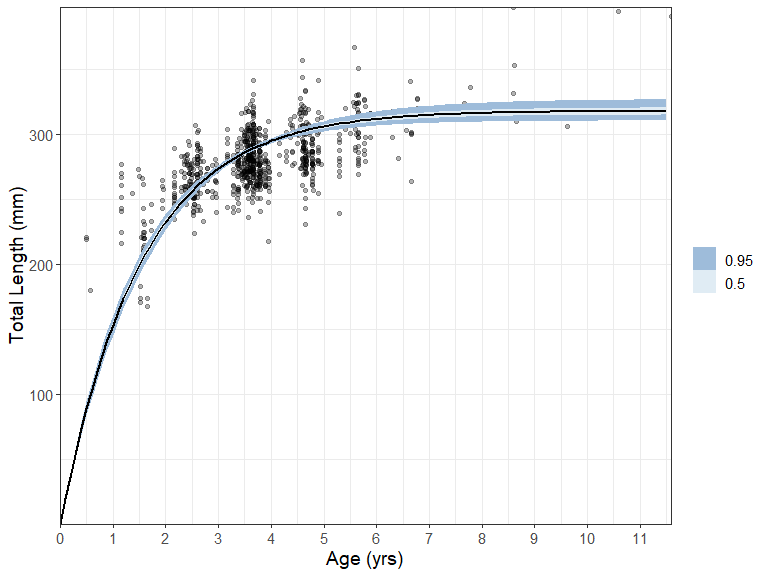
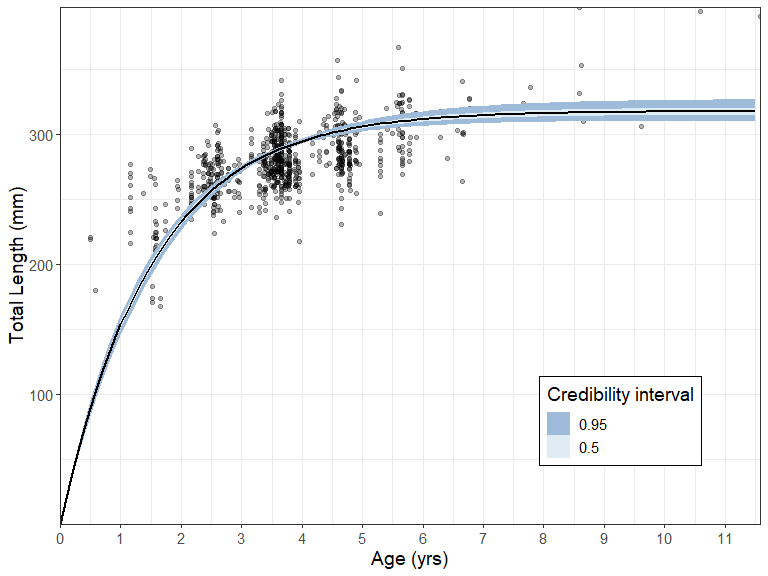
loo function updated. Readme.md generated

diff --git a/README.md b/README.md
@@ -1,3 +1,8 @@
+---
+output:
+  html_document: default
+  pdf_document: default
+---
 
 <!-- README.md is generated from README.Rmd. Please edit that file -->
 
@@ -11,10 +16,10 @@ status](https://travis-ci.org/jonathansmart/BayesGrowth.svg?branch=master)](http
 <!-- badges: end -->
 
 BayesGrowth combines length-at-age modelling for fisheries with MCMC
-implemented using JAGS and the
-[rjags](https://cran.r-project.org/web/packages/rjags/index.html)
-package. Growth modelling using models such as the von Bertalanffy
-growth model involves three parameters:
+implemented using Stan and the
+[rstan](https://mc-stan.org/users/interfaces/rstan) package. Growth
+modelling using models such as the von Bertalanffy growth model involves
+three parameters:
 ![L\_{}](https://render.githubusercontent.com/render/math?math=L_%7B%5Cinfty%7D),
 *k* and either
 ![L\_{0}](https://render.githubusercontent.com/render/math?math=L_%7B0%7D)
@@ -27,31 +32,29 @@ and
 have direct biological meaning as the size-at-birth and maximum length,
 respectively. This package provides the tools to run an MCMC model with
 these two parameters treated as size-at-birth and maximum length using a
-JAGS model. This MCMC model is pre-specified and built into wrapper
-functions.
+rstan model with a No U-Turn Sampling (NUTS) algorigthm. This MCMC model
+is pre-specified and built into wrapper functions.
 
 The user can therefore run an MCMC growth model using knowledge of
 species length-at-birth and maximum size as priors.
 
 ## Installation
 
-This package provides a series of wrapper functions to the rjags package
-which will run JAGS (“Just Another Gibbs Sampler”) MCMC models.
-Therefore, **JAGS must be installed before this package is installed**.
-To install JAGS, visit:
-<https://sourceforge.net/projects/mcmc-jags/files/>
-
 You can install the released version of BayesGrowth from
 [Github](https://github.com/jonathansmart/BayesGrowth) with:
 
 ``` r
-devtools::install_github("jonathansmart/BayesGrowth")
+if (!require("devtools")) {
+  install.packages("devtools")
+}
+
+devtools::install_github("jonathansmart/BayesGrowth", dependencies = TRUE)
 ```
 
 ## Usage
 
 The main `BayesGrowth` function is `Estimate_MCMC_Growth` which is the
-wrapper function around an rjags model. It requires a data input that
+wrapper function around an rstan model. It requires a data input that
 includes columns that can be identified “Age” and “Length”, the model
 needs to be specified (several options are available) and the priors
 must be specified. Priors include the max size with an error,
@@ -70,118 +73,80 @@ at zero and keep growth positive.
 library(BayesGrowth)
 
 data("example_data")
+
 ## Biological info - lengths in mm
 max_size <- 440
 max_size_se <- 5
 birth_size <- 0
 birth_size_se <- 0.001 # an se cannot be zero
 
-# Use the function to estimate the JAGS model
-results <- Estimate_MCMC_Growth(example_data, Model = "VB" ,
-                     iter = 10000,
-                     Linf = max_size,
-                     Linf.se = max_size_se,
-                     L0 = birth_size,
-                     sigma.max = 100,
-                     L0.se = birth_size_se,
-                     k.max = 1)
+# Use the function to estimate the rstan model
+fit <- Estimate_MCMC_Growth(data = example_data, 
+                            Model = "VB" ,
+                            iter = 5000,
+                            Linf = max_size,
+                            Linf.se = max_size_se,
+                            L0 = birth_size,
+                            sigma.max = 100,
+                            L0.se = birth_size_se,
+                            k.max = 1)
 ```
 
-The function returns the rjags outputs which is an object of class
-‘mcmc.list’
+The function returns the rstan outputs which is an object of class
+“stanfit”
 
 ``` r
-head(results)
-#> [[1]]
-#> Markov Chain Monte Carlo (MCMC) output:
-#> Start = 1001 
-#> End = 1007 
-#> Thinning interval = 1 
-#>                L0     Linf         k    sigma
-#> [1,] 1.620193e-03 322.9924 0.6252832 25.33929
-#> [2,] 1.888714e-04 321.7057 0.6262001 24.26403
-#> [3,] 7.001445e-05 321.4209 0.6346040 24.59340
-#> [4,] 1.106807e-03 320.3221 0.6425210 25.17661
-#> [5,] 8.420172e-05 318.3766 0.6585767 25.30314
-#> [6,] 9.839419e-04 319.5081 0.6521222 24.66876
-#> [7,] 2.761105e-04 318.8243 0.6551852 24.31665
+fit
+#> Inference for Stan model: VB_stan_model.
+#> 4 chains, each with iter=5000; warmup=500; thin=1; 
+#> post-warmup draws per chain=4500, total post-warmup draws=18000.
 #> 
-#> [[2]]
-#> Markov Chain Monte Carlo (MCMC) output:
-#> Start = 1001 
-#> End = 1007 
-#> Thinning interval = 1 
-#>                L0     Linf         k    sigma
-#> [1,] 2.729452e-03 315.7365 0.6808001 23.00637
-#> [2,] 3.149000e-04 316.2117 0.6726950 23.61696
-#> [3,] 4.580170e-04 316.7876 0.6687817 23.75443
-#> [4,] 2.669531e-03 316.0115 0.6850629 23.51763
-#> [5,] 1.754852e-03 314.7021 0.6785013 23.52310
-#> [6,] 1.239856e-04 315.6326 0.6844819 23.45735
-#> [7,] 2.318665e-05 314.9931 0.6861442 24.10765
+#>           mean se_mean   sd     2.5%      25%      50%      75%    97.5% n_eff
+#> Linf    318.00    0.07 4.24   310.55   315.07   317.68   320.59   327.23  3880
+#> k         0.66    0.00 0.04     0.59     0.64     0.66     0.68     0.73  4057
+#> L0        0.00    0.00 0.00     0.00     0.00     0.00     0.00     0.00  8128
+#> sigma    24.31    0.01 0.90    22.70    23.70    24.27    24.88    26.18  5031
+#> lp__  -3933.92    0.02 1.50 -3937.76 -3934.65 -3933.58 -3932.81 -3932.04  4479
+#>       Rhat
+#> Linf     1
+#> k        1
+#> L0       1
+#> sigma    1
+#> lp__     1
 #> 
-#> [[3]]
-#> Markov Chain Monte Carlo (MCMC) output:
-#> Start = 1001 
-#> End = 1007 
-#> Thinning interval = 1 
-#>                L0     Linf         k    sigma
-#> [1,] 0.0009088723 320.3561 0.6347524 24.00090
-#> [2,] 0.0010109374 320.1480 0.6431379 24.12359
-#> [3,] 0.0001968916 321.3025 0.6417628 25.15158
-#> [4,] 0.0008266579 320.0616 0.6445093 25.39160
-#> [5,] 0.0020838618 320.1917 0.6296088 25.93056
-#> [6,] 0.0005640227 322.2117 0.6278904 24.91463
-#> [7,] 0.0009385744 321.0957 0.6307897 24.98684
-#> 
-#> [[4]]
-#> Markov Chain Monte Carlo (MCMC) output:
-#> Start = 1001 
-#> End = 1007 
-#> Thinning interval = 1 
-#>                L0     Linf         k    sigma
-#> [1,] 2.162523e-04 317.0216 0.6627174 23.21808
-#> [2,] 1.524742e-03 315.9498 0.6681138 23.32697
-#> [3,] 9.151084e-04 317.9562 0.6628014 23.27665
-#> [4,] 3.186078e-05 317.6608 0.6610399 23.10562
-#> [5,] 1.780628e-03 318.1236 0.6738835 23.36739
-#> [6,] 8.652171e-04 316.6314 0.6608945 24.79195
-#> [7,] 1.424658e-03 317.8562 0.6597827 24.35975
-#> 
-#> attr(,"class")
-#> [1] "mcmc.list"
+#> Samples were drawn using NUTS(diag_e) at Fri Oct 02 16:40:04 2020.
+#> For each parameter, n_eff is a crude measure of effective sample size,
+#> and Rhat is the potential scale reduction factor on split chains (at 
+#> convergence, Rhat=1).
 ```
 
-Therefore, all of the diagnostics from the rjags library can be used.
+Therefore, all of the diagnostics from the rstan library can be used.
+Some examples are the `pairs` and `extract` functions:
 
 ``` r
-summary(results)
-#> 
-#> Iterations = 1001:11000
-#> Thinning interval = 1 
-#> Number of chains = 4 
-#> Sample size per chain = 10000 
-#> 
-#> 1. Empirical mean and standard deviation for each variable,
-#>    plus standard error of the mean:
-#> 
-#>            Mean        SD  Naive SE Time-series SE
-#> L0    7.983e-04 0.0006055 3.027e-06      2.998e-06
-#> Linf  3.182e+02 4.1954397 2.098e-02      1.432e-01
-#> k     6.589e-01 0.0350873 1.754e-04      1.191e-03
-#> sigma 2.435e+01 0.8847075 4.424e-03      2.245e-02
-#> 
-#> 2. Quantiles for each variable:
-#> 
-#>            2.5%       25%       50%       75%     97.5%
-#> L0    3.062e-05 3.193e-04 6.697e-04 1.152e-03 2.256e-03
-#> Linf  3.107e+02 3.153e+02 3.179e+02 3.208e+02 3.272e+02
-#> k     5.899e-01 6.353e-01 6.591e-01 6.823e-01 7.283e-01
-#> sigma 2.274e+01 2.373e+01 2.432e+01 2.492e+01 2.618e+01
-plot(results,density = T, smooth = F)
+library(tidyverse)
+library(rstan)
+
+pairs(fit, pars = c("Linf", "k","L0", "sigma"))
 ```
 
 <img src="man/figures/README-Diagnostics-1.png" width="100%" />
+
+``` r
+
+list_of_draws <- extract(fit,c("Linf", "k","L0", "sigma")) %>% 
+  as.data.frame() %>% 
+  gather(Parameter, Value) %>% 
+  filter(Parameter %in% c("Linf", "k","L0", "sigma"))
+
+
+ggplot(list_of_draws, aes(Value))+
+  geom_density(fill = "royalblue")+
+  facet_wrap(~Parameter, scales = "free", ncol = 2)+
+  theme_bw()
+```
+
+<img src="man/figures/README-Diagnostics-2.png" width="100%" />
 
 Additional `BayesGrowth` functions are available that help the user
 manipulate the returned `Estimate_MCMC_Growth` object. The
@@ -193,21 +158,24 @@ means it can be passed straight into a ggplot with the
 
 ``` r
 
-# Return a growth curve with 50th and 95th percentiles
-growth_curve <- Calculate_MCMC_growth_curve(results, Model = "VB",
-                                            max.age = max(example_data$Age), probs = c(.5,.95))
 library(tidybayes)
-library(ggplot2)
+
+# Return a growth curve with 50th and 95th percentiles
+growth_curve <- Calculate_MCMC_growth_curve(fit, Model = "VB",
+                                            max.age = max(example_data$Age), probs = c(.5,.95))
+
 
 ggplot(growth_curve, aes(Age, LAA))+
   geom_point(data = example_data, aes(Age, Length), alpha = .3)+
-  geom_lineribbon( size = .8) +
+  geom_lineribbon(aes( ymin = .lower, ymax = .upper), size = .8) +
   labs(y = "Total Length (mm)", x = "Age (yrs)")+
-  scale_fill_brewer(palette="BuPu", direction=-1)+
+  scale_fill_brewer(palette="BuPu", direction=-1,name = "Credibility interval")+
   scale_y_continuous(expand = c(0,0))+
   scale_x_continuous(expand = c(0,0), breaks = seq(0,13,1))+
   theme_bw()+
-  theme(text = element_text(size = 14))
+  theme(text = element_text(size = 14),
+        legend.position = c(0.8,0.2),
+        legend.background = element_rect(colour = "black"))
 ```
 
 <img src="man/figures/README-plot-1.png" width="100%" />
